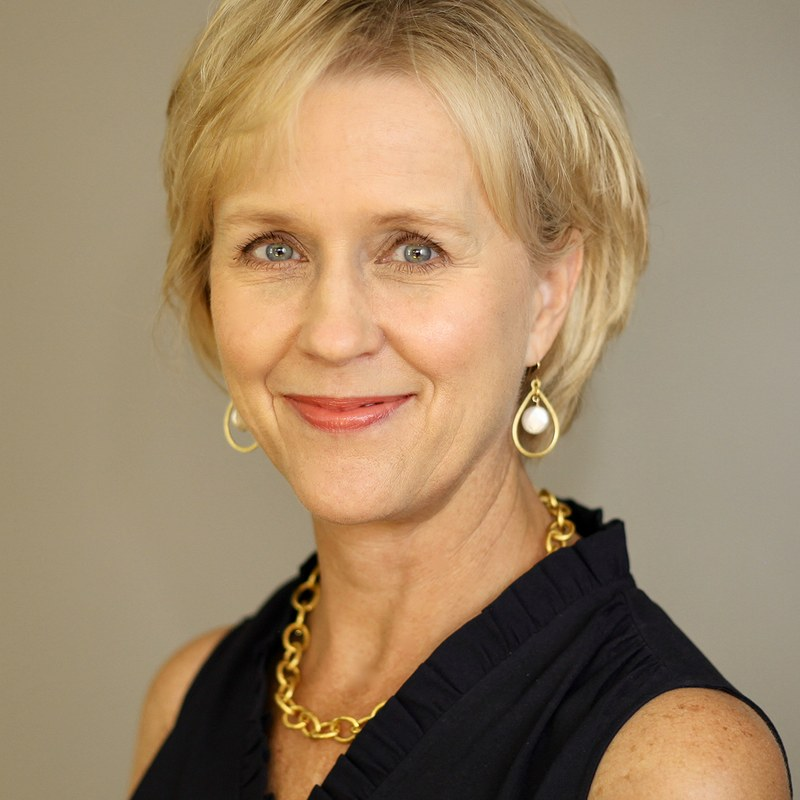
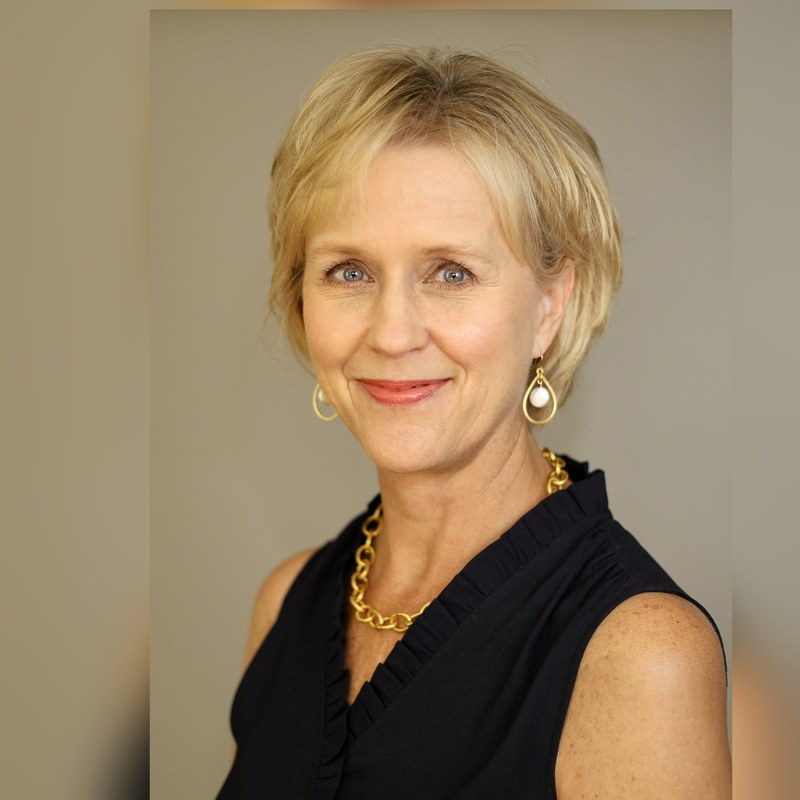
Zoom out five tight headshots; cache-bust CSS and harden hero lockup
- Beth, Kristina, Amy, Jennifer Dooley, Jennifer Eakins re-cropped with
  blur-extended canvas so framing matches the other headshots
- style.css?v=3 cache-buster on all pages (stale CSS made the hero
  butterfly render unstyled at full size)
- Hero butterfly gets intrinsic width/height; lockup selectors scoped
  under .carousel-content so generic h1/p rules can't override

diff --git a/assets/css/style.css b/assets/css/style.css
@@ -298,20 +298,22 @@ p { line-height: 1.7; }
   flex-shrink: 0;
   filter: drop-shadow(0 0 18px rgba(255,255,255,0.45));
 }
-.hero-lockup-name {
+.carousel-content .hero-lockup-name {
   font-family: var(--heading-font);
   font-size: 3.4rem;
   line-height: 1.08;
   color: var(--white);
   font-weight: 400;
   margin: 0;
+  margin-bottom: 0;
 }
-.hero-lockup-name span { color: var(--soft-pink, #F6A8C8); }
-.hero-lockup-tagline {
+.carousel-content .hero-lockup-name span { color: var(--soft-pink, #F6A8C8); }
+.carousel-content .hero-lockup-tagline {
   font-size: 1.12rem;
   letter-spacing: 0.045em;
   color: rgba(255,255,255,0.92);
   margin: 10px 0 0;
+  margin-bottom: 0;
 }
 .carousel-eyebrow {
   display: inline-block;
@@ -418,8 +420,8 @@ p { line-height: 1.7; }
   .carousel-content h1 { font-size: 2.2rem; }
   .hero-lockup { flex-direction: column; align-items: flex-start; gap: 16px; margin-bottom: 24px; }
   .hero-lockup img { height: 84px; }
-  .hero-lockup-name { font-size: 2.2rem; }
-  .hero-lockup-tagline { font-size: 1rem; }
+  .carousel-content .hero-lockup-name { font-size: 2.2rem; }
+  .carousel-content .hero-lockup-tagline { font-size: 1rem; }
   .carousel-content p { font-size: 1rem; }
   .carousel-controls {
     bottom: 24px;

diff --git a/index.html b/index.html
@@ -9,7 +9,7 @@
   <link rel="preconnect" href="https://fonts.gstatic.com" crossorigin>
   <link href="https://fonts.googleapis.com/css2?family=DM+Serif+Display:ital@0;1&family=DM+Sans:ital,wght@0,400;0,500;0,600;0,700;1,400&display=swap" rel="stylesheet">
   <link rel="icon" type="image/svg+xml" href="assets/svg/badge.svg">
-  <link rel="stylesheet" href="assets/css/style.css">
+  <link rel="stylesheet" href="assets/css/style.css?v=3">
 </head>
 <body>
 
@@ -43,7 +43,7 @@
       <div class="carousel-overlay"></div>
       <div class="carousel-content">
         <div class="hero-lockup">
-          <img src="assets/svg/butterfly.svg" alt="">
+          <img src="assets/svg/butterfly.svg" alt="" width="118" height="118">
           <div>
             <h1 class="hero-lockup-name">Caring with <span>Grace</span></h1>
             <p class="hero-lockup-tagline">Helping those you love live with dignity</p>

diff --git a/about.html b/about.html
@@ -9,7 +9,7 @@
   <link rel="preconnect" href="https://fonts.gstatic.com" crossorigin>
   <link href="https://fonts.googleapis.com/css2?family=DM+Serif+Display:ital@0;1&family=DM+Sans:ital,wght@0,400;0,500;0,600;0,700;1,400&display=swap" rel="stylesheet">
   <link rel="icon" type="image/svg+xml" href="assets/svg/badge.svg">
-  <link rel="stylesheet" href="assets/css/style.css">
+  <link rel="stylesheet" href="assets/css/style.css?v=3">
 </head>
 <body>
 

diff --git a/aging-life-care.html b/aging-life-care.html
@@ -9,7 +9,7 @@
   <link rel="preconnect" href="https://fonts.gstatic.com" crossorigin>
   <link href="https://fonts.googleapis.com/css2?family=DM+Serif+Display:ital@0;1&family=DM+Sans:ital,wght@0,400;0,500;0,600;0,700;1,400&display=swap" rel="stylesheet">
   <link rel="icon" type="image/svg+xml" href="assets/svg/badge.svg">
-  <link rel="stylesheet" href="assets/css/style.css">
+  <link rel="stylesheet" href="assets/css/style.css?v=3">
 </head>
 <body>
 

diff --git a/blog.html b/blog.html
@@ -9,7 +9,7 @@
   <link rel="preconnect" href="https://fonts.gstatic.com" crossorigin>
   <link href="https://fonts.googleapis.com/css2?family=DM+Serif+Display:ital@0;1&family=DM+Sans:ital,wght@0,400;0,500;0,600;0,700;1,400&display=swap" rel="stylesheet">
   <link rel="icon" type="image/svg+xml" href="assets/svg/badge.svg">
-  <link rel="stylesheet" href="assets/css/style.css">
+  <link rel="stylesheet" href="assets/css/style.css?v=3">
 </head>
 <body>
 

diff --git a/caring-on-call.html b/caring-on-call.html
@@ -9,7 +9,7 @@
   <link rel="preconnect" href="https://fonts.gstatic.com" crossorigin>
   <link href="https://fonts.googleapis.com/css2?family=DM+Serif+Display:ital@0;1&family=DM+Sans:ital,wght@0,400;0,500;0,600;0,700;1,400&display=swap" rel="stylesheet">
   <link rel="icon" type="image/svg+xml" href="assets/svg/badge.svg">
-  <link rel="stylesheet" href="assets/css/style.css">
+  <link rel="stylesheet" href="assets/css/style.css?v=3">
 </head>
 <body>
 

diff --git a/contact.html b/contact.html
@@ -9,7 +9,7 @@
   <link rel="preconnect" href="https://fonts.gstatic.com" crossorigin>
   <link href="https://fonts.googleapis.com/css2?family=DM+Serif+Display:ital@0;1&family=DM+Sans:ital,wght@0,400;0,500;0,600;0,700;1,400&display=swap" rel="stylesheet">
   <link rel="icon" type="image/svg+xml" href="assets/svg/badge.svg">
-  <link rel="stylesheet" href="assets/css/style.css">
+  <link rel="stylesheet" href="assets/css/style.css?v=3">
 </head>
 <body>
 

diff --git a/resources.html b/resources.html
@@ -9,7 +9,7 @@
   <link rel="preconnect" href="https://fonts.gstatic.com" crossorigin>
   <link href="https://fonts.googleapis.com/css2?family=DM+Serif+Display:ital@0;1&family=DM+Sans:ital,wght@0,400;0,500;0,600;0,700;1,400&display=swap" rel="stylesheet">
   <link rel="icon" type="image/svg+xml" href="assets/svg/badge.svg">
-  <link rel="stylesheet" href="assets/css/style.css">
+  <link rel="stylesheet" href="assets/css/style.css?v=3">
 </head>
 <body>
 

diff --git a/team.html b/team.html
@@ -9,7 +9,7 @@
   <link rel="preconnect" href="https://fonts.gstatic.com" crossorigin>
   <link href="https://fonts.googleapis.com/css2?family=DM+Serif+Display:ital@0;1&family=DM+Sans:ital,wght@0,400;0,500;0,600;0,700;1,400&display=swap" rel="stylesheet">
   <link rel="icon" type="image/svg+xml" href="assets/svg/badge.svg">
-  <link rel="stylesheet" href="assets/css/style.css">
+  <link rel="stylesheet" href="assets/css/style.css?v=3">
 </head>
 <body>
 
